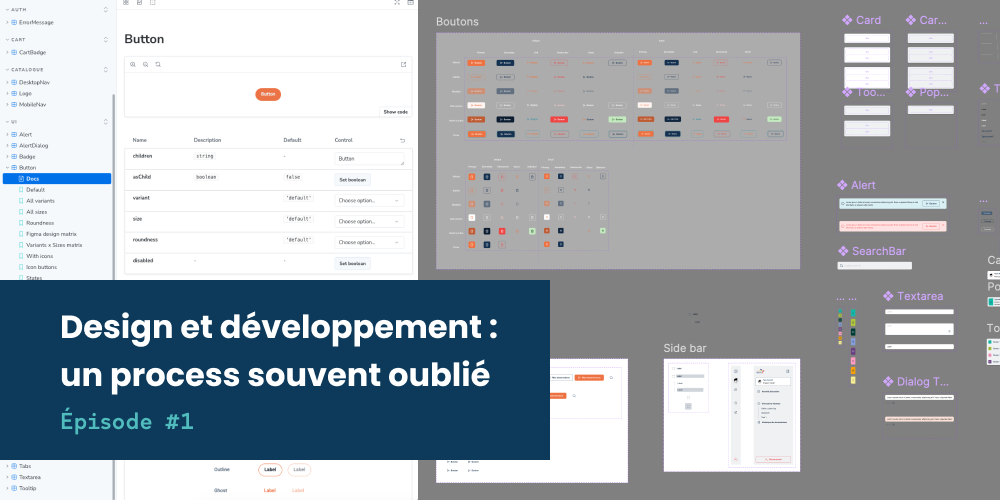
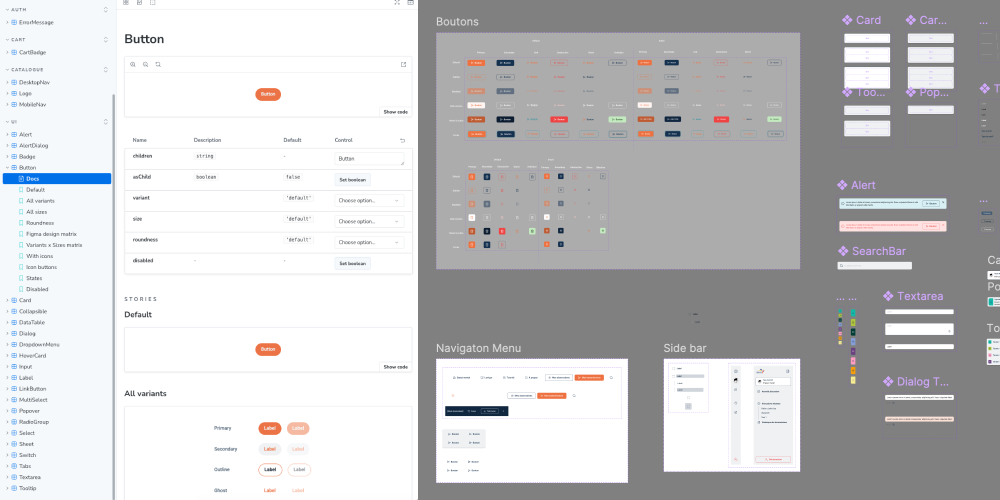
[Blog > Methodo] Ajuste la mise en forme de l'article Storybook
- Titre d'épisode en h2, sections en h3
- Numérotation des sections rétablie (1, 2, 3)
- Callout blockquote-secondary (encadré violet) sur la définition de Storybook
- Nouvelle image de couverture
- Liens du corps des blockquotes violets en blanc souligné (accessibilité)

Changed region(s): [[0.0, 0.54, 0.558, 0.93]]

diff --git a/assets/scss/generic/_blockquote.scss b/assets/scss/generic/_blockquote.scss
@@ -63,6 +63,18 @@ blockquote:nth-of-type(even):not(.blockquote-primary),
     font-family: 'faktum bold';
   }
 
+  a {
+    color: inherit;
+    text-decoration: underline;
+    transition: opacity ease-in .1s;
+
+    &:hover,
+    &:active,
+    &:focus {
+      opacity: .7;
+    }
+  }
+
   cite {
     font-family: 'faktum bold';
     font-size: 16px;

diff --git a/content/blog/methodo/design-developpement-un-process-souvent-oublie.md b/content/blog/methodo/design-developpement-un-process-souvent-oublie.md
@@ -15,13 +15,13 @@ tags:               [design-system, storybook, ux, webdesign]
 thumbnail:          content/images/blog/2026/methodo/design-developpement-un-process-souvent-oublie/thumbnail.png
 ---
 
-**Épisode 1 · Ce fossé invisible que l'on a décidé de combler grâce au Storybook**
+## Épisode 1 · Ce fossé invisible que l'on a décidé de combler grâce au Storybook
 
 *Le travail sur le design d'une application et le développement sont deux faces différentes d'une même pièce et pourtant, la collaboration entre designers et développeurs n'est pas toujours fluide… Non pas par manque de volonté de la part des uns ou des autres, mais parce que personne n'a réellement appris comment faire.*
 
 Chez Elao, la mise en place progressive d'une phase de conception plus étendue, intégrant un travail poussé de design d'UX et UI, a mis en lumière un fossé que l'on n'avait pas anticipé entre design et intégration. Les vocabulaires, les outils et les façons de penser un produit qui diffèrent entre ces deux métiers nous ont amenés à repenser nos processus en y ajoutant, notamment, la construction d'un Storybook comme source de vérité partagée pour chaque projet. Ce premier article de la série revient sur les réflexions qui nous ont amenés à ces travaux.
 
-## 1) Ce que l'on n'apprend pas aux designers
+### 1) Ce que l'on n'apprend pas aux designers
 
 De façon générale, les formations en UX/UI design se concentrent sur les utilisateurs finaux : leurs besoins, leurs attentes et comment les recueillir au mieux pour créer les meilleures expériences et interfaces. On y saupoudre également des bases d'accessibilité et de code (HTML, CSS et JavaScript principalement) afin de pouvoir dialoguer avec les autres interlocuteurs impliqués dans la création d'applications et de sites web, et voilà.
 
@@ -37,7 +37,7 @@ En conclusion : les outils utilisés, la façon dont designers et développeurs 
 
 Une fois que ce constat est posé, la solution semble toute trouvée, non ?
 
-## 2) Parler la même langue
+### 2) Parler la même langue
 
 La réalité est un peu plus complexe que cela.
 
@@ -49,11 +49,13 @@ Avec le temps, on finit par ajuster le tir. Le designer apprend les bons termes,
 
 Mais le vocabulaire n'est encore que la surface du problème, car dans un contexte d'agence, les projets sont, par nature, évolutifs et, dans le cas d'Elao, nous n'avons qu'un seul designer UX/UI pour tous les projets.
 
-## 3) Storybook comme source de vérité
+### 3) Storybook comme source de vérité
 
 Sachant cela, nous nous sommes demandé où se trouverait la référence et comment garantir que les futures mises à jour restent cohérentes avec les choix initiaux. Certains choisiront le fichier Figma comme source de vérité mais dans notre cas, nous avons décidé qu'il s'agirait du Storybook (un projet = un Storybook), créé et maintenu par les développeurs à partir du fichier fourni par le designer.
 
-[Storybook](https://storybook.js.org/) est un outil open source qui permet de développer et documenter les composants d'une interface de façon isolée, en dehors de l'application. C'est un catalogue vivant : chaque élément UI, des plus simples comme un bouton aux plus complexes, y est visible avec ses variantes et ses états réels. Contrairement à un fichier Figma, ce que l'on voit dans Storybook, c'est le vrai code, tel qu'il sera rendu dans le produit final. C'est d'ailleurs ce qui en fait un outil utilisé par des équipes comme celles de GitHub, Airbnb ou Shopify pour maintenir la cohérence de leurs interfaces à grande échelle.
+<blockquote class="blockquote-secondary">
+<a href="https://storybook.js.org/">Storybook</a> est un outil open source qui permet de développer et documenter les composants d'une interface de façon isolée, en dehors de l'application. C'est un catalogue vivant : chaque élément UI, des plus simples comme un bouton aux plus complexes, y est visible avec ses variantes et ses états réels. Contrairement à un fichier Figma, ce que l'on voit dans Storybook, c'est le vrai code, tel qu'il sera rendu dans le produit final. C'est d'ailleurs ce qui en fait un outil utilisé par des équipes comme celles de GitHub, Airbnb ou Shopify pour maintenir la cohérence de leurs interfaces à grande échelle.
+</blockquote>
 
 Grâce au Storybook, nous pourrons, pour chaque projet :
 